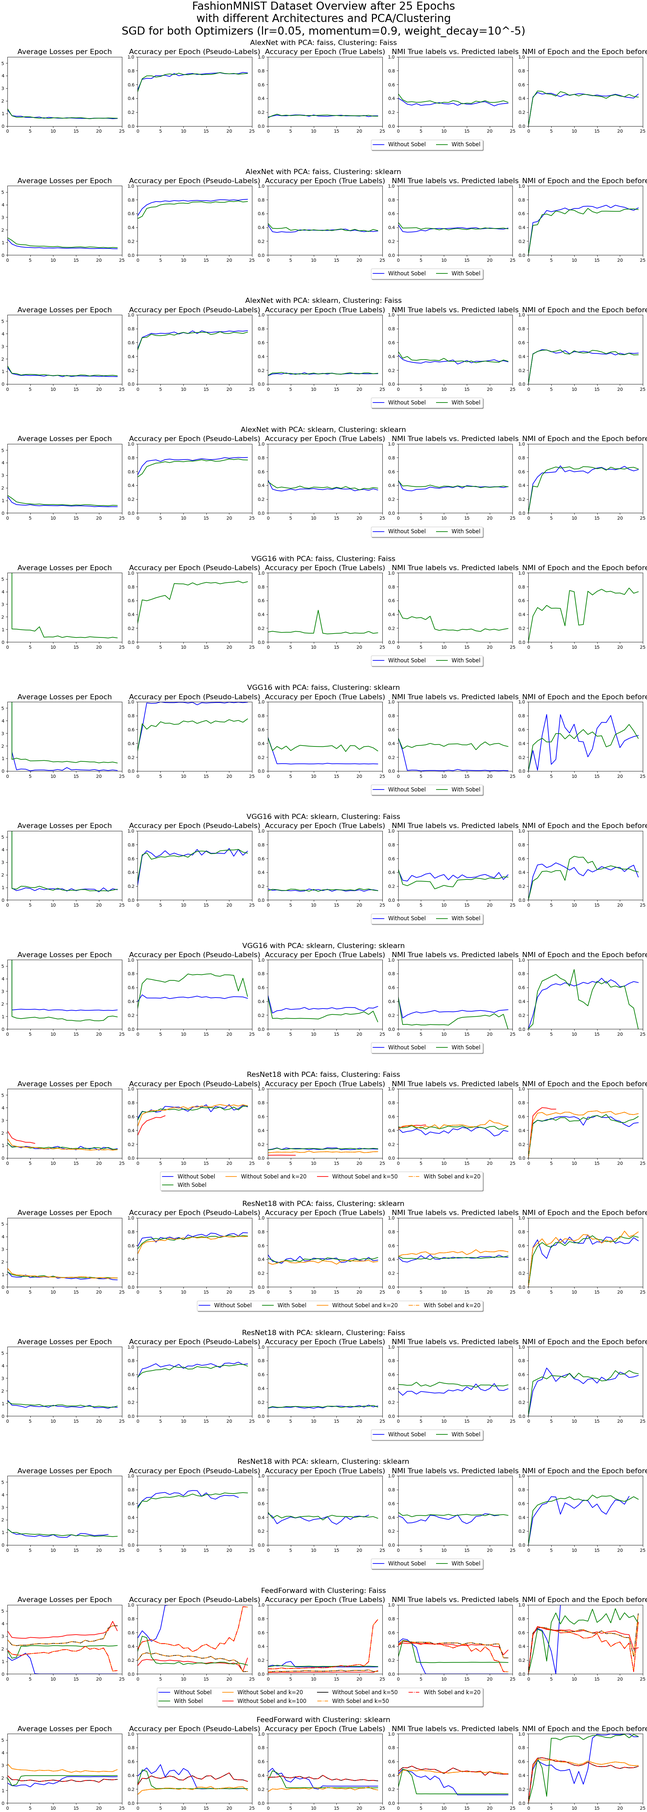
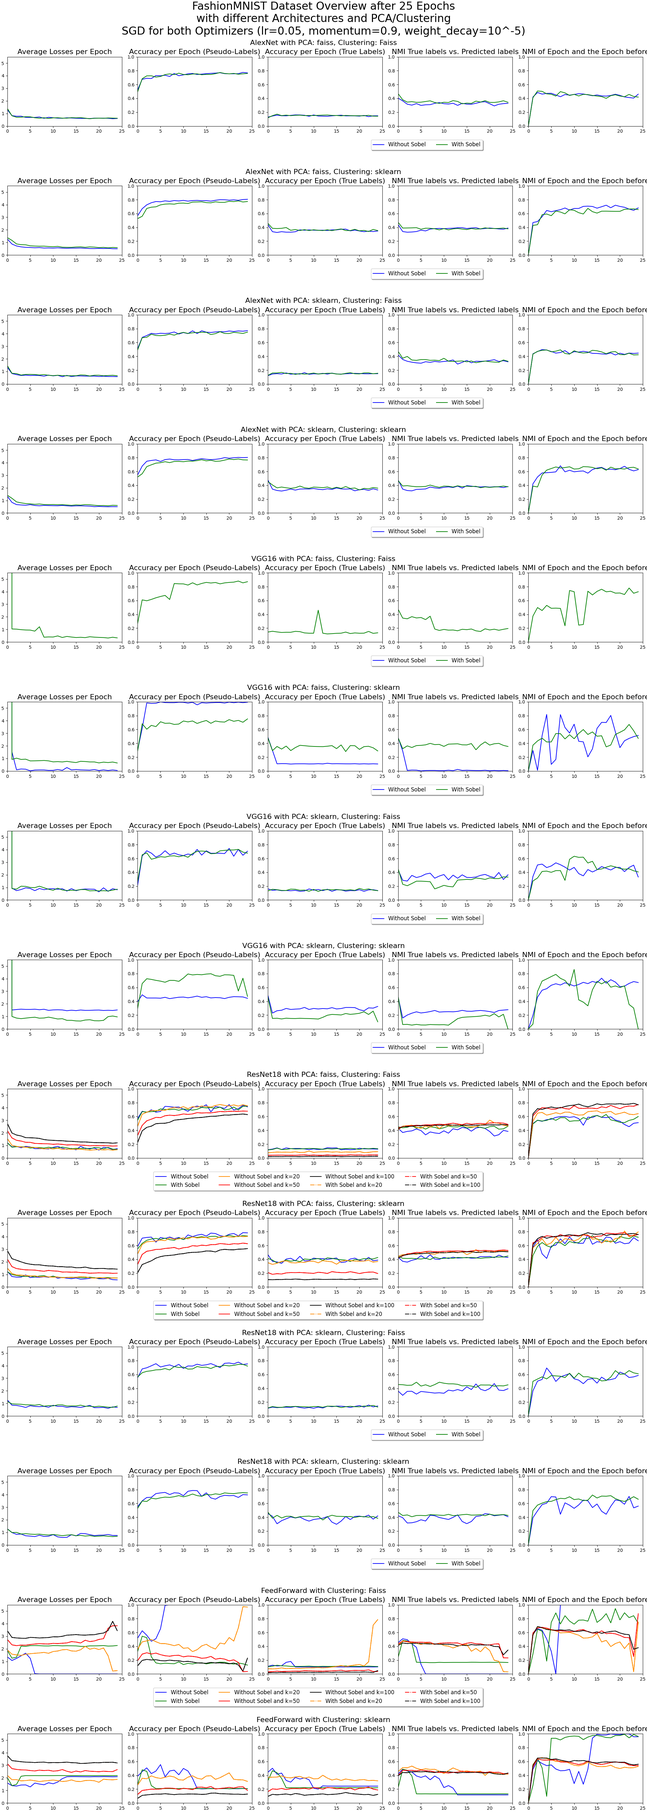
Update Current state of experiments

diff --git a/results/CIFAR10_results.md b/results/CIFAR10_results.md
@@ -63,12 +63,12 @@ for i in {1..5}; do python3 main.py --arch ResNet18 --input_dim 3 --num_classes 
 ```
 
 **With Sobel**:
-```bash (diamiktit)
+```bash
 for i in {1..5}; do python3 main.py --arch ResNet18 --input_dim 2 --grayscale --sobel --num_classes 10 --epochs 25 --requires_grad --dataset CIFAR10 --ds_train --batch_size 128 --reassign_optimizer_tl --pca --pca_method faiss --pca_whitening --clustering faiss --metrics --metrics_dir ./metrics/CIFAR10/5_runs_100_epochs/ -v; python3 main.py --arch ResNet18 --input_dim 2 --grayscale --sobel --num_classes 10 --epochs 25 --requires_grad --dataset CIFAR10 --ds_train --batch_size 128 --reassign_optimizer_tl --pca --pca_method sklearn --pca_whitening --clustering faiss --metrics --metrics_dir ./metrics/CIFAR10/5_runs_100_epochs/ -v; python3 main.py --arch ResNet18 --input_dim 2 --grayscale --sobel --num_classes 10 --epochs 25 --requires_grad --dataset CIFAR10 --ds_train --batch_size 128 --reassign_optimizer_tl --pca --pca_method faiss --pca_whitening --clustering sklearn --metrics --metrics_dir ./metrics/CIFAR10/5_runs_100_epochs/ -v; python3 main.py --arch ResNet18 --input_dim 2 --grayscale --sobel --num_classes 10 --epochs 25 --requires_grad --dataset CIFAR10 --ds_train --batch_size 128 --reassign_optimizer_tl --pca --pca_method sklearn --pca_whitening --clustering sklearn --metrics --metrics_dir ./metrics/CIFAR10/5_runs_100_epochs/ -v; done
 ```
 
 **Adjusted class size**
-```bash (charnockit)
+```bash
 for i in 20 50 100; do python3 main.py --arch ResNet18 --input_dim 3 --num_classes $i --epochs 25 --requires_grad --dataset CIFAR10 --ds_train --batch_size 128 --reassign_optimizer_tl --pca --pca_method faiss --pca_whitening --clustering faiss --metrics --metrics_dir ./metrics/CIFAR10/5_runs_100_epochs/ -v --remove_head; python3 main.py --arch ResNet18 --input_dim 3 --num_classes $i --epochs 25 --requires_grad --dataset CIFAR10 --ds_train --batch_size 128 --reassign_optimizer_tl --pca --pca_method faiss --pca_whitening --clustering sklearn --metrics --metrics_dir ./metrics/CIFAR10/5_runs_100_epochs/ -v --remove_head; python3 main.py --arch ResNet18 --input_dim 2 --num_classes $i --grayscale --sobel --epochs 25 --requires_grad --dataset CIFAR10 --ds_train --batch_size 128 --reassign_optimizer_tl --pca --pca_method faiss --pca_whitening --clustering faiss --metrics --metrics_dir ./metrics/CIFAR10/5_runs_100_epochs/ -v --remove_head; python3 main.py --arch ResNet18 --input_dim 2 --num_classes $i --grayscale --sobel --epochs 25 --requires_grad --dataset CIFAR10 --ds_train --batch_size 128 --reassign_optimizer_tl --pca --pca_method faiss --pca_whitening --clustering sklearn --metrics --metrics_dir ./metrics/CIFAR10/5_runs_100_epochs/ -v --remove_head; done
 ```
 
@@ -90,12 +90,25 @@ for i in {1..5}; do python3 main.py --arch FeedForward --input_dim 2 --grayscale
 for i in 20 50 100; do python3 main.py --arch FeedForward --input_dim 3 --num_classes $i --epochs 25 --requires_grad --dataset CIFAR10 --ds_train --batch_size 128 --reassign_optimizer_tl --clustering faiss --metrics --metrics_dir ./metrics/CIFAR10/5_runs_100_epochs/ -v --remove_head; python3 main.py --arch FeedForward --input_dim 3 --num_classes $i --epochs 25 --requires_grad --dataset CIFAR10 --ds_train --batch_size 128 --reassign_optimizer_tl --clustering sklearn --metrics --metrics_dir ./metrics/CIFAR10/5_runs_100_epochs/ -v --remove_head; python3 main.py --arch FeedForward --input_dim 2 --num_classes $i --grayscale --sobel --epochs 25 --requires_grad --dataset CIFAR10 --ds_train --batch_size 128 --reassign_optimizer_tl --clustering faiss --metrics --metrics_dir ./metrics/CIFAR10/5_runs_100_epochs/ -v --remove_head; python3 main.py --arch FeedForward --input_dim 2 --num_classes $i --grayscale --sobel --epochs 25 --requires_grad --dataset CIFAR10 --ds_train --batch_size 128 --reassign_optimizer_tl --clustering sklearn --metrics --metrics_dir ./metrics/CIFAR10/5_runs_100_epochs/ -v --remove_head; done
 ```
 
+---
+
+## Adam Optimizer
+**Without Sobel**
+```bash (charnockit)
+python3 main.py --arch AlexNet --input_dim 3 --num_classes 10 --epochs 25 --requires_grad --dataset CIFAR10 --ds_train --batch_size 128 --reassign_optimizer_tl --pca --pca_method faiss --pca_whitening --clustering faiss --metrics --metrics_dir ./metrics/CIFAR10/5_runs_100_epochs/ -v --optimizer Adam --optimizer_tl Adam; python3 main.py --arch AlexNet --input_dim 3 --num_classes 10 --epochs 25 --requires_grad --dataset CIFAR10 --ds_train --batch_size 128 --reassign_optimizer_tl --pca --pca_method sklearn --pca_whitening --clustering sklearn --metrics --metrics_dir ./metrics/CIFAR10/5_runs_100_epochs/ -v --optimizer Adam --optimizer_tl Adam; python3 main.py --arch VGG16 --input_dim 3 --num_classes 10 --epochs 25 --requires_grad --dataset CIFAR10 --ds_train --batch_size 32 --reassign_optimizer_tl --pca --pca_method faiss --pca_whitening --clustering faiss --metrics --metrics_dir ./metrics/CIFAR10/5_runs_100_epochs/ -v --optimizer Adam --optimizer_tl Adam; python3 main.py --arch VGG16 --input_dim 3 --num_classes 10 --epochs 25 --requires_grad --dataset CIFAR10 --ds_train --batch_size 32 --reassign_optimizer_tl --pca --pca_method sklearn --pca_whitening --clustering sklearn --metrics --metrics_dir ./metrics/CIFAR10/5_runs_100_epochs/ -v --optimizer Adam --optimizer_tl Adam; python3 main.py --arch ResNet18 --input_dim 3 --num_classes 10 --epochs 25 --requires_grad --dataset CIFAR10 --ds_train --batch_size 128 --reassign_optimizer_tl --pca --pca_method faiss --pca_whitening --clustering faiss --metrics --metrics_dir ./metrics/CIFAR10/5_runs_100_epochs/ -v --optimizer Adam --optimizer_tl Adam; python3 main.py --arch ResNet18 --input_dim 3 --num_classes 10 --epochs 25 --requires_grad --dataset CIFAR10 --ds_train --batch_size 128 --reassign_optimizer_tl --pca --pca_method sklearn --pca_whitening --clustering sklearn --metrics --metrics_dir ./metrics/CIFAR10/5_runs_100_epochs/ -v --optimizer Adam --optimizer_tl Adam; python3 main.py --arch FeedForward --input_dim 3 --num_classes 10 --epochs 25 --requires_grad --dataset CIFAR10 --ds_train --batch_size 128 --reassign_optimizer_tl --clustering faiss --metrics --metrics_dir ./metrics/CIFAR10/5_runs_100_epochs/ -v --optimizer Adam --optimizer_tl Adam; python3 main.py --arch FeedForward --input_dim 3 --num_classes 10 --epochs 25 --requires_grad --dataset CIFAR10 --ds_train --batch_size 128 --reassign_optimizer_tl --clustering sklearn --metrics --metrics_dir ./metrics/CIFAR10/5_runs_100_epochs/ -v --optimizer Adam --optimizer_tl Adam;
+```
+
+**With Sobel**
+```bash (aplit)
+python3 main.py --arch AlexNet --input_dim 2 --num_classes 10 --epochs 25 --requires_grad --dataset CIFAR10 --ds_train --batch_size 128 --reassign_optimizer_tl --pca --pca_method faiss --pca_whitening --clustering faiss --metrics --metrics_dir ./metrics/CIFAR10/5_runs_100_epochs/ -v --optimizer Adam --optimizer_tl Adam --sobel --grayscale; python3 main.py --arch AlexNet --input_dim 2 --num_classes 10 --epochs 25 --requires_grad --dataset CIFAR10 --ds_train --batch_size 128 --reassign_optimizer_tl --pca --pca_method sklearn --pca_whitening --clustering sklearn --metrics --metrics_dir ./metrics/CIFAR10/5_runs_100_epochs/ -v --optimizer Adam --optimizer_tl Adam --sobel --grayscale; python3 main.py --arch VGG16 --input_dim 2 --num_classes 10 --epochs 25 --requires_grad --dataset CIFAR10 --ds_train --batch_size 32 --reassign_optimizer_tl --pca --pca_method faiss --pca_whitening --clustering faiss --metrics --metrics_dir ./metrics/CIFAR10/5_runs_100_epochs/ -v --optimizer Adam --optimizer_tl Adam --sobel --grayscale; python3 main.py --arch VGG16 --input_dim 2 --num_classes 10 --epochs 25 --requires_grad --dataset CIFAR10 --ds_train --batch_size 32 --reassign_optimizer_tl --pca --pca_method sklearn --pca_whitening --clustering sklearn --metrics --metrics_dir ./metrics/CIFAR10/5_runs_100_epochs/ -v --optimizer Adam --optimizer_tl Adam --sobel --grayscale; python3 main.py --arch ResNet18 --input_dim 2 --num_classes 10 --epochs 25 --requires_grad --dataset CIFAR10 --ds_train --batch_size 128 --reassign_optimizer_tl --pca --pca_method faiss --pca_whitening --clustering faiss --metrics --metrics_dir ./metrics/CIFAR10/5_runs_100_epochs/ -v --optimizer Adam --optimizer_tl Adam --sobel --grayscale; python3 main.py --arch ResNet18 --input_dim 2 --num_classes 10 --epochs 25 --requires_grad --dataset CIFAR10 --ds_train --batch_size 128 --reassign_optimizer_tl --pca --pca_method sklearn --pca_whitening --clustering sklearn --metrics --metrics_dir ./metrics/CIFAR10/5_runs_100_epochs/ -v --optimizer Adam --optimizer_tl Adam --sobel --grayscale; python3 main.py --arch FeedForward --input_dim 2 --num_classes 10 --epochs 25 --requires_grad --dataset CIFAR10 --ds_train --batch_size 128 --reassign_optimizer_tl --clustering faiss --metrics --metrics_dir ./metrics/CIFAR10/5_runs_100_epochs/ -v --optimizer Adam --optimizer_tl Adam --sobel --grayscale; python3 main.py --arch FeedForward --input_dim 2 --num_classes 10 --epochs 25 --requires_grad --dataset CIFAR10 --ds_train --batch_size 128 --reassign_optimizer_tl --clustering sklearn --metrics --metrics_dir ./metrics/CIFAR10/5_runs_100_epochs/ -v --optimizer Adam --optimizer_tl Adam --sobel --grayscale;
+```
+
 
 ---
 
 ## Contrastive Strategies
 
 ### Strategy 1
-```bash (enderbit)
+```bash
 python3 main.py --arch AlexNet --input_dim 3 --num_classes 10 --epochs 25 --requires_grad --dataset CIFAR10 --ds_train --batch_size 128 --reassign_optimizer_tl --pca --pca_method faiss --pca_whitening --clustering faiss --metrics --metrics_dir ./metrics/CIFAR10/5_runs_100_epochs/ -v --contrastive_strategy_1; python3 main.py --arch AlexNet --input_dim 3 --num_classes 10 --epochs 25 --requires_grad --dataset CIFAR10 --ds_train --batch_size 128 --reassign_optimizer_tl --pca --pca_method sklearn --pca_whitening --clustering sklearn --metrics --metrics_dir ./metrics/CIFAR10/5_runs_100_epochs/ -v --contrastive_strategy_1; python3 main.py --arch VGG16 --input_dim 3 --num_classes 10 --epochs 25 --requires_grad --dataset CIFAR10 --ds_train --batch_size 32 --reassign_optimizer_tl --pca --pca_method faiss --pca_whitening --clustering faiss --metrics --metrics_dir ./metrics/CIFAR10/5_runs_100_epochs/ -v --contrastive_strategy_1; python3 main.py --arch VGG16 --input_dim 3 --num_classes 10 --epochs 25 --requires_grad --dataset CIFAR10 --ds_train --batch_size 32 --reassign_optimizer_tl --pca --pca_method sklearn --pca_whitening --clustering sklearn --metrics --metrics_dir ./metrics/CIFAR10/5_runs_100_epochs/ -v --contrastive_strategy_1; python3 main.py --arch ResNet18 --input_dim 3 --num_classes 10 --epochs 25 --requires_grad --dataset CIFAR10 --ds_train --batch_size 128 --reassign_optimizer_tl --pca --pca_method faiss --pca_whitening --clustering faiss --metrics --metrics_dir ./metrics/CIFAR10/5_runs_100_epochs/ -v --contrastive_strategy_1; python3 main.py --arch ResNet18 --input_dim 3 --num_classes 10 --epochs 25 --requires_grad --dataset CIFAR10 --ds_train --batch_size 128 --reassign_optimizer_tl --pca --pca_method sklearn --pca_whitening --clustering sklearn --metrics --metrics_dir ./metrics/CIFAR10/5_runs_100_epochs/ -v --contrastive_strategy_1; python3 main.py --arch FeedForward --input_dim 3 --num_classes 10 --epochs 25 --requires_grad --dataset CIFAR10 --ds_train --batch_size 128 --reassign_optimizer_tl --clustering faiss --metrics --metrics_dir ./metrics/CIFAR10/5_runs_100_epochs/ -v --contrastive_strategy_1; python3 main.py --arch FeedForward --input_dim 3 --num_classes 10 --epochs 25 --requires_grad --dataset CIFAR10 --ds_train --batch_size 128 --reassign_optimizer_tl --clustering sklearn --metrics --metrics_dir ./metrics/CIFAR10/5_runs_100_epochs/ -v --contrastive_strategy_1;
 ```

diff --git a/results/GTSRB_results.md b/results/GTSRB_results.md
@@ -17,12 +17,12 @@
 
 #### AlexNet
 **Without Sobel**:
-```bash (diatomit)
+```bash
 python3 main.py --arch AlexNet --input_dim 3 --num_classes 10 --epochs 25 --requires_grad --dataset GTSRB --ds_train --batch_size 128 --reassign_optimizer_tl --pca --pca_method faiss --pca_whitening --clustering faiss --metrics --metrics_dir ./metrics/GTSRB/5_runs_100_epochs/ -v --remove_head; python3 main.py --arch AlexNet --input_dim 3 --num_classes 10 --epochs 25 --requires_grad --dataset GTSRB --ds_train --batch_size 128 --reassign_optimizer_tl --pca --pca_method sklearn --pca_whitening --clustering faiss --metrics --metrics_dir ./metrics/GTSRB/5_runs_100_epochs/ -v --remove_head; python3 main.py --arch AlexNet --input_dim 3 --num_classes 10 --epochs 25 --requires_grad --dataset GTSRB --ds_train --batch_size 128 --reassign_optimizer_tl --pca --pca_method faiss --pca_whitening --clustering sklearn --metrics --metrics_dir ./metrics/GTSRB/5_runs_100_epochs/ -v --remove_head; python3 main.py --arch AlexNet --input_dim 3 --num_classes 10 --epochs 25 --requires_grad --dataset GTSRB --ds_train --batch_size 128 --reassign_optimizer_tl --pca --pca_method sklearn --pca_whitening --clustering sklearn --metrics --metrics_dir ./metrics/GTSRB/5_runs_100_epochs/ -v --remove_head;
 ```
 
 **With Sobel**:
-```bash (diatomit)
+```bash
 python3 main.py --arch AlexNet --input_dim 2 --grayscale --sobel --num_classes 10 --epochs 25 --requires_grad --dataset GTSRB --ds_train --batch_size 128 --reassign_optimizer_tl --pca --pca_method faiss --pca_whitening --clustering faiss --metrics --metrics_dir ./metrics/GTSRB/5_runs_100_epochs/ -v --remove_head; python3 main.py --arch AlexNet --input_dim 2 --grayscale --sobel --num_classes 10 --epochs 25 --requires_grad --dataset GTSRB --ds_train --batch_size 128 --reassign_optimizer_tl --pca --pca_method sklearn --pca_whitening --clustering faiss --metrics --metrics_dir ./metrics/GTSRB/5_runs_100_epochs/ -v --remove_head; python3 main.py --arch AlexNet --input_dim 2 --grayscale --sobel --num_classes 10 --epochs 25 --requires_grad --dataset GTSRB --ds_train --batch_size 128 --reassign_optimizer_tl --pca --pca_method faiss --pca_whitening --clustering sklearn --metrics --metrics_dir ./metrics/GTSRB/5_runs_100_epochs/ -v --remove_head; python3 main.py --arch AlexNet --input_dim 2 --grayscale --sobel --num_classes 10 --epochs 25 --requires_grad --dataset GTSRB --ds_train --batch_size 128 --reassign_optimizer_tl --pca --pca_method sklearn --pca_whitening --clustering sklearn --metrics --metrics_dir ./metrics/GTSRB/5_runs_100_epochs/ -v --remove_head;
 ```
 
@@ -74,8 +74,21 @@ python3 main.py --arch FeedForward --input_dim 2 --grayscale --sobel --num_class
 ```
 
 **Adjusted class size**
-```bash (aplit)
+```bash (diatomit)
 for i in 20 50 100; do python3 main.py --arch FeedForward --input_dim 3 --num_classes $i --epochs 25 --requires_grad --dataset GTSRB --ds_train --batch_size 128 --reassign_optimizer_tl --clustering faiss --metrics --metrics_dir ./metrics/GTSRB/5_runs_100_epochs/ -v --remove_head; python3 main.py --arch FeedForward --input_dim 3 --num_classes $i --epochs 25 --requires_grad --dataset GTSRB --ds_train --batch_size 128 --reassign_optimizer_tl --clustering sklearn --metrics --metrics_dir ./metrics/GTSRB/5_runs_100_epochs/ -v --remove_head; python3 main.py --arch FeedForward --input_dim 2 --num_classes $i --grayscale --sobel --epochs 25 --requires_grad --dataset GTSRB --ds_train --batch_size 128 --reassign_optimizer_tl --clustering faiss --metrics --metrics_dir ./metrics/GTSRB/5_runs_100_epochs/ -v --remove_head; python3 main.py --arch FeedForward --input_dim 2 --num_classes $i --grayscale --sobel --epochs 25 --requires_grad --dataset GTSRB --ds_train --batch_size 128 --reassign_optimizer_tl --clustering sklearn --metrics --metrics_dir ./metrics/GTSRB/5_runs_100_epochs/ -v --remove_head; done
+```
+
+---
+
+## Adam Optimizer
+**Without Sobel**
+```bash (enderbit)
+python3 main.py --arch AlexNet --input_dim 3 --num_classes 10 --epochs 25 --requires_grad --dataset GTSRB --ds_train --batch_size 128 --reassign_optimizer_tl --pca --pca_method faiss --pca_whitening --clustering faiss --metrics --metrics_dir ./metrics/GTSRB/5_runs_100_epochs/ -v --optimizer Adam --optimizer_tl Adam; python3 main.py --arch AlexNet --input_dim 3 --num_classes 10 --epochs 25 --requires_grad --dataset GTSRB --ds_train --batch_size 128 --reassign_optimizer_tl --pca --pca_method sklearn --pca_whitening --clustering sklearn --metrics --metrics_dir ./metrics/GTSRB/5_runs_100_epochs/ -v --optimizer Adam --optimizer_tl Adam; python3 main.py --arch VGG16 --input_dim 3 --num_classes 10 --epochs 25 --requires_grad --dataset GTSRB --ds_train --batch_size 32 --reassign_optimizer_tl --pca --pca_method faiss --pca_whitening --clustering faiss --metrics --metrics_dir ./metrics/GTSRB/5_runs_100_epochs/ -v --optimizer Adam --optimizer_tl Adam; python3 main.py --arch VGG16 --input_dim 3 --num_classes 10 --epochs 25 --requires_grad --dataset GTSRB --ds_train --batch_size 32 --reassign_optimizer_tl --pca --pca_method sklearn --pca_whitening --clustering sklearn --metrics --metrics_dir ./metrics/GTSRB/5_runs_100_epochs/ -v --optimizer Adam --optimizer_tl Adam; python3 main.py --arch ResNet18 --input_dim 3 --num_classes 10 --epochs 25 --requires_grad --dataset GTSRB --ds_train --batch_size 128 --reassign_optimizer_tl --pca --pca_method faiss --pca_whitening --clustering faiss --metrics --metrics_dir ./metrics/GTSRB/5_runs_100_epochs/ -v --optimizer Adam --optimizer_tl Adam; python3 main.py --arch ResNet18 --input_dim 3 --num_classes 10 --epochs 25 --requires_grad --dataset GTSRB --ds_train --batch_size 128 --reassign_optimizer_tl --pca --pca_method sklearn --pca_whitening --clustering sklearn --metrics --metrics_dir ./metrics/GTSRB/5_runs_100_epochs/ -v --optimizer Adam --optimizer_tl Adam; python3 main.py --arch FeedForward --input_dim 3 --num_classes 10 --epochs 25 --requires_grad --dataset GTSRB --ds_train --batch_size 128 --reassign_optimizer_tl --clustering faiss --metrics --metrics_dir ./metrics/GTSRB/5_runs_100_epochs/ -v --optimizer Adam --optimizer_tl Adam; python3 main.py --arch FeedForward --input_dim 3 --num_classes 10 --epochs 25 --requires_grad --dataset GTSRB --ds_train --batch_size 128 --reassign_optimizer_tl --clustering sklearn --metrics --metrics_dir ./metrics/GTSRB/5_runs_100_epochs/ -v --optimizer Adam --optimizer_tl Adam;
+```
+
+**With Sobel**
+```bash (diamiktit)
+python3 main.py --arch AlexNet --input_dim 2 --num_classes 10 --epochs 25 --requires_grad --dataset GTSRB --ds_train --batch_size 128 --reassign_optimizer_tl --pca --pca_method faiss --pca_whitening --clustering faiss --metrics --metrics_dir ./metrics/GTSRB/5_runs_100_epochs/ -v --optimizer Adam --optimizer_tl Adam --sobel --grayscale; python3 main.py --arch AlexNet --input_dim 2 --num_classes 10 --epochs 25 --requires_grad --dataset GTSRB --ds_train --batch_size 128 --reassign_optimizer_tl --pca --pca_method sklearn --pca_whitening --clustering sklearn --metrics --metrics_dir ./metrics/GTSRB/5_runs_100_epochs/ -v --optimizer Adam --optimizer_tl Adam --sobel --grayscale; python3 main.py --arch VGG16 --input_dim 2 --num_classes 10 --epochs 25 --requires_grad --dataset GTSRB --ds_train --batch_size 32 --reassign_optimizer_tl --pca --pca_method faiss --pca_whitening --clustering faiss --metrics --metrics_dir ./metrics/GTSRB/5_runs_100_epochs/ -v --optimizer Adam --optimizer_tl Adam --sobel --grayscale; python3 main.py --arch VGG16 --input_dim 2 --num_classes 10 --epochs 25 --requires_grad --dataset GTSRB --ds_train --batch_size 32 --reassign_optimizer_tl --pca --pca_method sklearn --pca_whitening --clustering sklearn --metrics --metrics_dir ./metrics/GTSRB/5_runs_100_epochs/ -v --optimizer Adam --optimizer_tl Adam --sobel --grayscale; python3 main.py --arch ResNet18 --input_dim 2 --num_classes 10 --epochs 25 --requires_grad --dataset GTSRB --ds_train --batch_size 128 --reassign_optimizer_tl --pca --pca_method faiss --pca_whitening --clustering faiss --metrics --metrics_dir ./metrics/GTSRB/5_runs_100_epochs/ -v --optimizer Adam --optimizer_tl Adam --sobel --grayscale; python3 main.py --arch ResNet18 --input_dim 2 --num_classes 10 --epochs 25 --requires_grad --dataset GTSRB --ds_train --batch_size 128 --reassign_optimizer_tl --pca --pca_method sklearn --pca_whitening --clustering sklearn --metrics --metrics_dir ./metrics/GTSRB/5_runs_100_epochs/ -v --optimizer Adam --optimizer_tl Adam --sobel --grayscale; python3 main.py --arch FeedForward --input_dim 2 --num_classes 10 --epochs 25 --requires_grad --dataset GTSRB --ds_train --batch_size 128 --reassign_optimizer_tl --clustering faiss --metrics --metrics_dir ./metrics/GTSRB/5_runs_100_epochs/ -v --optimizer Adam --optimizer_tl Adam --sobel --grayscale; python3 main.py --arch FeedForward --input_dim 2 --num_classes 10 --epochs 25 --requires_grad --dataset GTSRB --ds_train --batch_size 128 --reassign_optimizer_tl --clustering sklearn --metrics --metrics_dir ./metrics/GTSRB/5_runs_100_epochs/ -v --optimizer Adam --optimizer_tl Adam --sobel --grayscale;
 ```
 
 
@@ -84,6 +97,6 @@ for i in 20 50 100; do python3 main.py --arch FeedForward --input_dim 3 --num_cl
 ## Contrastive Strategies
 
 ### Strategy 1
-```bash (ehrwaldit)
+```bash
 python3 main.py --arch AlexNet --input_dim 3 --num_classes 10 --epochs 25 --requires_grad --dataset GTSRB --ds_train --batch_size 128 --reassign_optimizer_tl --pca --pca_method faiss --pca_whitening --clustering faiss --metrics --metrics_dir ./metrics/GTSRB/5_runs_100_epochs/ -v --contrastive_strategy_1; python3 main.py --arch AlexNet --input_dim 3 --num_classes 10 --epochs 25 --requires_grad --dataset GTSRB --ds_train --batch_size 128 --reassign_optimizer_tl --pca --pca_method sklearn --pca_whitening --clustering sklearn --metrics --metrics_dir ./metrics/GTSRB/5_runs_100_epochs/ -v --contrastive_strategy_1; python3 main.py --arch VGG16 --input_dim 3 --num_classes 10 --epochs 25 --requires_grad --dataset GTSRB --ds_train --batch_size 32 --reassign_optimizer_tl --pca --pca_method faiss --pca_whitening --clustering faiss --metrics --metrics_dir ./metrics/GTSRB/5_runs_100_epochs/ -v --contrastive_strategy_1; python3 main.py --arch VGG16 --input_dim 3 --num_classes 10 --epochs 25 --requires_grad --dataset GTSRB --ds_train --batch_size 32 --reassign_optimizer_tl --pca --pca_method sklearn --pca_whitening --clustering sklearn --metrics --metrics_dir ./metrics/GTSRB/5_runs_100_epochs/ -v --contrastive_strategy_1; python3 main.py --arch ResNet18 --input_dim 3 --num_classes 10 --epochs 25 --requires_grad --dataset GTSRB --ds_train --batch_size 128 --reassign_optimizer_tl --pca --pca_method faiss --pca_whitening --clustering faiss --metrics --metrics_dir ./metrics/GTSRB/5_runs_100_epochs/ -v --contrastive_strategy_1; python3 main.py --arch ResNet18 --input_dim 3 --num_classes 10 --epochs 25 --requires_grad --dataset GTSRB --ds_train --batch_size 128 --reassign_optimizer_tl --pca --pca_method sklearn --pca_whitening --clustering sklearn --metrics --metrics_dir ./metrics/GTSRB/5_runs_100_epochs/ -v --contrastive_strategy_1; python3 main.py --arch FeedForward --input_dim 3 --num_classes 10 --epochs 25 --requires_grad --dataset GTSRB --ds_train --batch_size 128 --reassign_optimizer_tl --clustering faiss --metrics --metrics_dir ./metrics/GTSRB/5_runs_100_epochs/ -v --contrastive_strategy_1; python3 main.py --arch FeedForward --input_dim 3 --num_classes 10 --epochs 25 --requires_grad --dataset GTSRB --ds_train --batch_size 128 --reassign_optimizer_tl --clustering sklearn --metrics --metrics_dir ./metrics/GTSRB/5_runs_100_epochs/ -v --contrastive_strategy_1;
 ```

diff --git a/results/FashionMNIST_results.md b/results/FashionMNIST_results.md
@@ -28,7 +28,7 @@ for i in {1..3}; do python3 main.py --arch AlexNet --input_dim 2 --sobel --num_c
 ```
 
 **Adjusted class size**
-```bash (bentonit)
+```bash (ehrwaldit)
 for i in 20 50 100; do python3 main.py --arch AlexNet --input_dim 1 --num_classes $i --epochs 25 --requires_grad --dataset FashionMNIST --ds_train --batch_size 128 --reassign_optimizer_tl --pca --pca_method faiss --pca_whitening --clustering faiss --metrics --metrics_dir ./metrics/FashionMNIST/5_runs_100_epochs/ -v --remove_head; python3 main.py --arch AlexNet --input_dim 1 --num_classes $i --epochs 25 --requires_grad --dataset FashionMNIST --ds_train --batch_size 128 --reassign_optimizer_tl --pca --pca_method faiss --pca_whitening --clustering sklearn --metrics --metrics_dir ./metrics/FashionMNIST/5_runs_100_epochs/ -v --remove_head; python3 main.py --arch AlexNet --input_dim 2 --num_classes $i --sobel --epochs 25 --requires_grad --dataset FashionMNIST --ds_train --batch_size 128 --reassign_optimizer_tl --pca --pca_method faiss --pca_whitening --clustering faiss --metrics --metrics_dir ./metrics/FashionMNIST/5_runs_100_epochs/ -v --remove_head; python3 main.py --arch AlexNet --input_dim 2 --num_classes $i --sobel --epochs 25 --requires_grad --dataset FashionMNIST --ds_train --batch_size 128 --reassign_optimizer_tl --pca --pca_method faiss --pca_whitening --clustering sklearn --metrics --metrics_dir ./metrics/FashionMNIST/5_runs_100_epochs/ -v --remove_head; done
 ```
 
@@ -49,7 +49,7 @@ for i in {1..5}; do python3 main.py --arch VGG16 --input_dim 2 --sobel --num_cla
 
 #### ResNet18
 **Without Sobel**:
-```bash (biolithe)
+```bash
 for i in {1..3}; do python3 main.py --arch ResNet18 --input_dim 1 --num_classes 10 --epochs 25 --requires_grad --dataset FashionMNIST --ds_train --batch_size 128 --reassign_optimizer_tl --pca --pca_method faiss --pca_whitening --clustering faiss --metrics --metrics_dir ./metrics/FashionMNIST/5_runs_100_epochs/ -v; python3 main.py --arch ResNet18 --input_dim 1 --num_classes 10 --epochs 25 --requires_grad --dataset FashionMNIST --ds_train --batch_size 128 --reassign_optimizer_tl --pca --pca_method sklearn --pca_whitening --clustering faiss --metrics --metrics_dir ./metrics/FashionMNIST/5_runs_100_epochs/ -v; python3 main.py --arch ResNet18 --input_dim 1 --num_classes 10 --epochs 25 --requires_grad --dataset FashionMNIST --ds_train --batch_size 128 --reassign_optimizer_tl --pca --pca_method faiss --pca_whitening --clustering sklearn --metrics --metrics_dir ./metrics/FashionMNIST/5_runs_100_epochs/ -v; python3 main.py --arch ResNet18 --input_dim 1 --num_classes 10 --epochs 25 --requires_grad --dataset FashionMNIST --ds_train --batch_size 128 --reassign_optimizer_tl --pca --pca_method sklearn --pca_whitening --clustering sklearn --metrics --metrics_dir ./metrics/FashionMNIST/5_runs_100_epochs/ -v; done
 ```
 
@@ -79,4 +79,15 @@ for i in {1..5}; do python3 main.py --arch FeedForward --input_dim 2 --sobel --n
 **Adjusted class size**
 ```bash
 for i in 20 50 100; do python3 main.py --arch FeedForward --input_dim 1 --num_classes $i --epochs 25 --requires_grad --dataset FashionMNIST --ds_train --batch_size 128 --reassign_optimizer_tl --clustering faiss --metrics --metrics_dir ./metrics/FashionMNIST/5_runs_100_epochs/ -v --remove_head; python3 main.py --arch FeedForward --input_dim 1 --num_classes $i --epochs 25 --requires_grad --dataset FashionMNIST --ds_train --batch_size 128 --reassign_optimizer_tl --clustering sklearn --metrics --metrics_dir ./metrics/FashionMNIST/5_runs_100_epochs/ -v --remove_head; python3 main.py --arch FeedForward --input_dim 2 --num_classes $i --sobel --epochs 25 --requires_grad --dataset FashionMNIST --ds_train --batch_size 128 --reassign_optimizer_tl --clustering faiss --metrics --metrics_dir ./metrics/FashionMNIST/5_runs_100_epochs/ -v --remove_head; python3 main.py --arch FeedForward --input_dim 2 --num_classes $i --sobel --epochs 25 --requires_grad --dataset FashionMNIST --ds_train --batch_size 128 --reassign_optimizer_tl --clustering sklearn --metrics --metrics_dir ./metrics/FashionMNIST/5_runs_100_epochs/ -v --remove_head; done
+```
+
+---
+
+## Adam Optimizer
+```bash (biolithe)
+python3 main.py --arch AlexNet --input_dim 1 --num_classes 10 --epochs 25 --requires_grad --dataset FashionMNIST --ds_train --batch_size 128 --reassign_optimizer_tl --pca --pca_method faiss --pca_whitening --clustering faiss --metrics --metrics_dir ./metrics/FashionMNIST/5_runs_100_epochs/ -v --optimizer Adam --optimizer_tl Adam; python3 main.py --arch AlexNet --input_dim 1 --num_classes 10 --epochs 25 --requires_grad --dataset FashionMNIST --ds_train --batch_size 128 --reassign_optimizer_tl --pca --pca_method sklearn --pca_whitening --clustering sklearn --metrics --metrics_dir ./metrics/FashionMNIST/5_runs_100_epochs/ -v --optimizer Adam --optimizer_tl Adam; python3 main.py --arch AlexNet --input_dim 2 --sobel --num_classes 10 --epochs 25 --requires_grad --dataset FashionMNIST --ds_train --batch_size 128 --reassign_optimizer_tl --pca --pca_method faiss --pca_whitening --clustering faiss --metrics --metrics_dir ./metrics/FashionMNIST/5_runs_100_epochs/ -v --optimizer Adam --optimizer_tl Adam; python3 main.py --arch AlexNet --input_dim 2 --sobel --num_classes 10 --epochs 25 --requires_grad --dataset FashionMNIST --ds_train --batch_size 128 --reassign_optimizer_tl --pca --pca_method sklearn --pca_whitening --clustering sklearn --metrics --metrics_dir ./metrics/FashionMNIST/5_runs_100_epochs/ -v --optimizer Adam --optimizer_tl Adam; python3 main.py --arch VGG16 --input_dim 1 --num_classes 10 --epochs 25 --requires_grad --dataset FashionMNIST --ds_train --batch_size 32 --reassign_optimizer_tl --pca --pca_method faiss --pca_whitening --clustering faiss --metrics --metrics_dir ./metrics/FashionMNIST/5_runs_100_epochs/ -v --optimizer Adam --optimizer_tl Adam; python3 main.py --arch VGG16 --input_dim 1 --num_classes 10 --epochs 25 --requires_grad --dataset FashionMNIST --ds_train --batch_size 32 --reassign_optimizer_tl --pca --pca_method sklearn --pca_whitening --clustering sklearn --metrics --metrics_dir ./metrics/FashionMNIST/5_runs_100_epochs/ -v --optimizer Adam --optimizer_tl Adam; python3 main.py --arch ResNet18 --input_dim 1 --num_classes 10 --epochs 25 --requires_grad --dataset FashionMNIST --ds_train --batch_size 128 --reassign_optimizer_tl --pca --pca_method faiss --pca_whitening --clustering faiss --metrics --metrics_dir ./metrics/FashionMNIST/5_runs_100_epochs/ -v --optimizer Adam --optimizer_tl Adam; python3 main.py --arch ResNet18 --input_dim 1 --num_classes 10 --epochs 25 --requires_grad --dataset FashionMNIST --ds_train --batch_size 128 --reassign_optimizer_tl --pca --pca_method sklearn --pca_whitening --clustering sklearn --metrics --metrics_dir ./metrics/FashionMNIST/5_runs_100_epochs/ -v --optimizer Adam --optimizer_tl Adam;
+```
+
+```bash (adakit)
+python3 main.py --arch ResNet18 --input_dim 2 --sobel --num_classes 10 --epochs 25 --requires_grad --dataset FashionMNIST --ds_train --batch_size 128 --reassign_optimizer_tl --pca --pca_method faiss --pca_whitening --clustering faiss --metrics --metrics_dir ./metrics/FashionMNIST/5_runs_100_epochs/ -v --optimizer Adam --optimizer_tl Adam; python3 main.py --arch ResNet18 --input_dim 2 --sobel --num_classes 10 --epochs 25 --requires_grad --dataset FashionMNIST --ds_train --batch_size 128 --reassign_optimizer_tl --pca --pca_method sklearn --pca_whitening --clustering sklearn --metrics --metrics_dir ./metrics/FashionMNIST/5_runs_100_epochs/ -v --optimizer Adam --optimizer_tl Adam; python3 main.py --arch FeedForward --input_dim 1 --num_classes 10 --epochs 25 --requires_grad --dataset FashionMNIST --ds_train --batch_size 128 --reassign_optimizer_tl --clustering faiss --metrics --metrics_dir ./metrics/FashionMNIST/5_runs_100_epochs/ -v --optimizer Adam --optimizer_tl Adam; python3 main.py --arch FeedForward --input_dim 1 --num_classes 10 --epochs 25 --requires_grad --dataset FashionMNIST --ds_train --batch_size 128 --reassign_optimizer_tl --clustering sklearn --metrics --metrics_dir ./metrics/FashionMNIST/5_runs_100_epochs/ -v --optimizer Adam --optimizer_tl Adam; python3 main.py --arch FeedForward --input_dim 2 --sobel --num_classes 10 --epochs 25 --requires_grad --dataset FashionMNIST --ds_train --batch_size 128 --reassign_optimizer_tl --clustering faiss --metrics --metrics_dir ./metrics/FashionMNIST/5_runs_100_epochs/ -v --optimizer Adam --optimizer_tl Adam; python3 main.py --arch FeedForward --input_dim 2 --sobel --num_classes 10 --epochs 25 --requires_grad --dataset FashionMNIST --ds_train --batch_size 128 --reassign_optimizer_tl --clustering sklearn --metrics --metrics_dir ./metrics/FashionMNIST/5_runs_100_epochs/ -v --optimizer Adam --optimizer_tl Adam; python3 main.py --arch VGG16 --input_dim 2 --sobel --num_classes 10 --epochs 25 --requires_grad --dataset FashionMNIST --ds_train --batch_size 32 --reassign_optimizer_tl --pca --pca_method faiss --pca_whitening --clustering faiss --metrics --metrics_dir ./metrics/FashionMNIST/5_runs_100_epochs/ -v --optimizer Adam --optimizer_tl Adam; python3 main.py --arch VGG16 --input_dim 2 --sobel --num_classes 10 --epochs 25 --requires_grad --dataset FashionMNIST --ds_train --batch_size 32 --reassign_optimizer_tl --pca --pca_method sklearn --pca_whitening --clustering sklearn --metrics --metrics_dir ./metrics/FashionMNIST/5_runs_100_epochs/ -v --optimizer Adam --optimizer_tl Adam;
 ```

diff --git a/results/MNIST_results.md b/results/MNIST_results.md
@@ -87,3 +87,12 @@ for i in {1..5}; do python3 main.py --arch FeedForward --input_dim 2 --sobel --n
 ```bash
 for i in 20 50 100; do python3 main.py --arch FeedForward --input_dim 1 --num_classes $i --epochs 25 --requires_grad --dataset MNIST --ds_train --batch_size 128 --reassign_optimizer_tl --clustering faiss --metrics --metrics_dir ./metrics/MNIST/5_runs_100_epochs/ -v --remove_head; python3 main.py --arch FeedForward --input_dim 1 --num_classes $i --epochs 25 --requires_grad --dataset MNIST --ds_train --batch_size 128 --reassign_optimizer_tl --clustering sklearn --metrics --metrics_dir ./metrics/MNIST/5_runs_100_epochs/ -v --remove_head; python3 main.py --arch FeedForward --input_dim 2 --num_classes $i --sobel --epochs 25 --requires_grad --dataset MNIST --ds_train --batch_size 128 --reassign_optimizer_tl --clustering faiss --metrics --metrics_dir ./metrics/MNIST/5_runs_100_epochs/ -v --remove_head; python3 main.py --arch FeedForward --input_dim 2 --num_classes $i --sobel --epochs 25 --requires_grad --dataset MNIST --ds_train --batch_size 128 --reassign_optimizer_tl --clustering sklearn --metrics --metrics_dir ./metrics/MNIST/5_runs_100_epochs/ -v --remove_head; done
 ```
+
+## Adam Optimizer
+```bash (cipollino)
+python3 main.py --arch AlexNet --input_dim 1 --num_classes 10 --epochs 25 --requires_grad --dataset MNIST --ds_train --batch_size 128 --reassign_optimizer_tl --pca --pca_method faiss --pca_whitening --clustering faiss --metrics --metrics_dir ./metrics/MNIST/5_runs_100_epochs/ -v --optimizer Adam --optimizer_tl Adam; python3 main.py --arch AlexNet --input_dim 1 --num_classes 10 --epochs 25 --requires_grad --dataset MNIST --ds_train --batch_size 128 --reassign_optimizer_tl --pca --pca_method sklearn --pca_whitening --clustering sklearn --metrics --metrics_dir ./metrics/MNIST/5_runs_100_epochs/ -v --optimizer Adam --optimizer_tl Adam; python3 main.py --arch AlexNet --input_dim 2 --sobel --num_classes 10 --epochs 25 --requires_grad --dataset MNIST --ds_train --batch_size 128 --reassign_optimizer_tl --pca --pca_method faiss --pca_whitening --clustering faiss --metrics --metrics_dir ./metrics/MNIST/5_runs_100_epochs/ -v --optimizer Adam --optimizer_tl Adam; python3 main.py --arch AlexNet --input_dim 2 --sobel --num_classes 10 --epochs 25 --requires_grad --dataset MNIST --ds_train --batch_size 128 --reassign_optimizer_tl --pca --pca_method sklearn --pca_whitening --clustering sklearn --metrics --metrics_dir ./metrics/MNIST/5_runs_100_epochs/ -v --optimizer Adam --optimizer_tl Adam; python3 main.py --arch VGG16 --input_dim 1 --num_classes 10 --epochs 25 --requires_grad --dataset MNIST --ds_train --batch_size 32 --reassign_optimizer_tl --pca --pca_method faiss --pca_whitening --clustering faiss --metrics --metrics_dir ./metrics/MNIST/5_runs_100_epochs/ -v --optimizer Adam --optimizer_tl Adam; python3 main.py --arch VGG16 --input_dim 1 --num_classes 10 --epochs 25 --requires_grad --dataset MNIST --ds_train --batch_size 32 --reassign_optimizer_tl --pca --pca_method sklearn --pca_whitening --clustering sklearn --metrics --metrics_dir ./metrics/MNIST/5_runs_100_epochs/ -v --optimizer Adam --optimizer_tl Adam; python3 main.py --arch ResNet18 --input_dim 1 --num_classes 10 --epochs 25 --requires_grad --dataset MNIST --ds_train --batch_size 128 --reassign_optimizer_tl --pca --pca_method faiss --pca_whitening --clustering faiss --metrics --metrics_dir ./metrics/MNIST/5_runs_100_epochs/ -v --optimizer Adam --optimizer_tl Adam; python3 main.py --arch ResNet18 --input_dim 1 --num_classes 10 --epochs 25 --requires_grad --dataset MNIST --ds_train --batch_size 128 --reassign_optimizer_tl --pca --pca_method sklearn --pca_whitening --clustering sklearn --metrics --metrics_dir ./metrics/MNIST/5_runs_100_epochs/ -v --optimizer Adam --optimizer_tl Adam;
+```
+
+```bash (diorit)
+python3 main.py --arch ResNet18 --input_dim 2 --sobel --num_classes 10 --epochs 25 --requires_grad --dataset MNIST --ds_train --batch_size 128 --reassign_optimizer_tl --pca --pca_method faiss --pca_whitening --clustering faiss --metrics --metrics_dir ./metrics/MNIST/5_runs_100_epochs/ -v --optimizer Adam --optimizer_tl Adam; python3 main.py --arch ResNet18 --input_dim 2 --sobel --num_classes 10 --epochs 25 --requires_grad --dataset MNIST --ds_train --batch_size 128 --reassign_optimizer_tl --pca --pca_method sklearn --pca_whitening --clustering sklearn --metrics --metrics_dir ./metrics/MNIST/5_runs_100_epochs/ -v --optimizer Adam --optimizer_tl Adam; python3 main.py --arch FeedForward --input_dim 1 --num_classes 10 --epochs 25 --requires_grad --dataset MNIST --ds_train --batch_size 128 --reassign_optimizer_tl --clustering faiss --metrics --metrics_dir ./metrics/MNIST/5_runs_100_epochs/ -v --optimizer Adam --optimizer_tl Adam; python3 main.py --arch FeedForward --input_dim 1 --num_classes 10 --epochs 25 --requires_grad --dataset MNIST --ds_train --batch_size 128 --reassign_optimizer_tl --clustering sklearn --metrics --metrics_dir ./metrics/MNIST/5_runs_100_epochs/ -v --optimizer Adam --optimizer_tl Adam; python3 main.py --arch FeedForward --input_dim 2 --sobel --num_classes 10 --epochs 25 --requires_grad --dataset MNIST --ds_train --batch_size 128 --reassign_optimizer_tl --clustering faiss --metrics --metrics_dir ./metrics/MNIST/5_runs_100_epochs/ -v --optimizer Adam --optimizer_tl Adam; python3 main.py --arch FeedForward --input_dim 2 --sobel --num_classes 10 --epochs 25 --requires_grad --dataset MNIST --ds_train --batch_size 128 --reassign_optimizer_tl --clustering sklearn --metrics --metrics_dir ./metrics/MNIST/5_runs_100_epochs/ -v --optimizer Adam --optimizer_tl Adam; python3 main.py --arch VGG16 --input_dim 2 --sobel --num_classes 10 --epochs 25 --requires_grad --dataset MNIST --ds_train --batch_size 32 --reassign_optimizer_tl --pca --pca_method faiss --pca_whitening --clustering faiss --metrics --metrics_dir ./metrics/MNIST/5_runs_100_epochs/ -v --optimizer Adam --optimizer_tl Adam; python3 main.py --arch VGG16 --input_dim 2 --sobel --num_classes 10 --epochs 25 --requires_grad --dataset MNIST --ds_train --batch_size 32 --reassign_optimizer_tl --pca --pca_method sklearn --pca_whitening --clustering sklearn --metrics --metrics_dir ./metrics/MNIST/5_runs_100_epochs/ -v --optimizer Adam --optimizer_tl Adam;
+```
